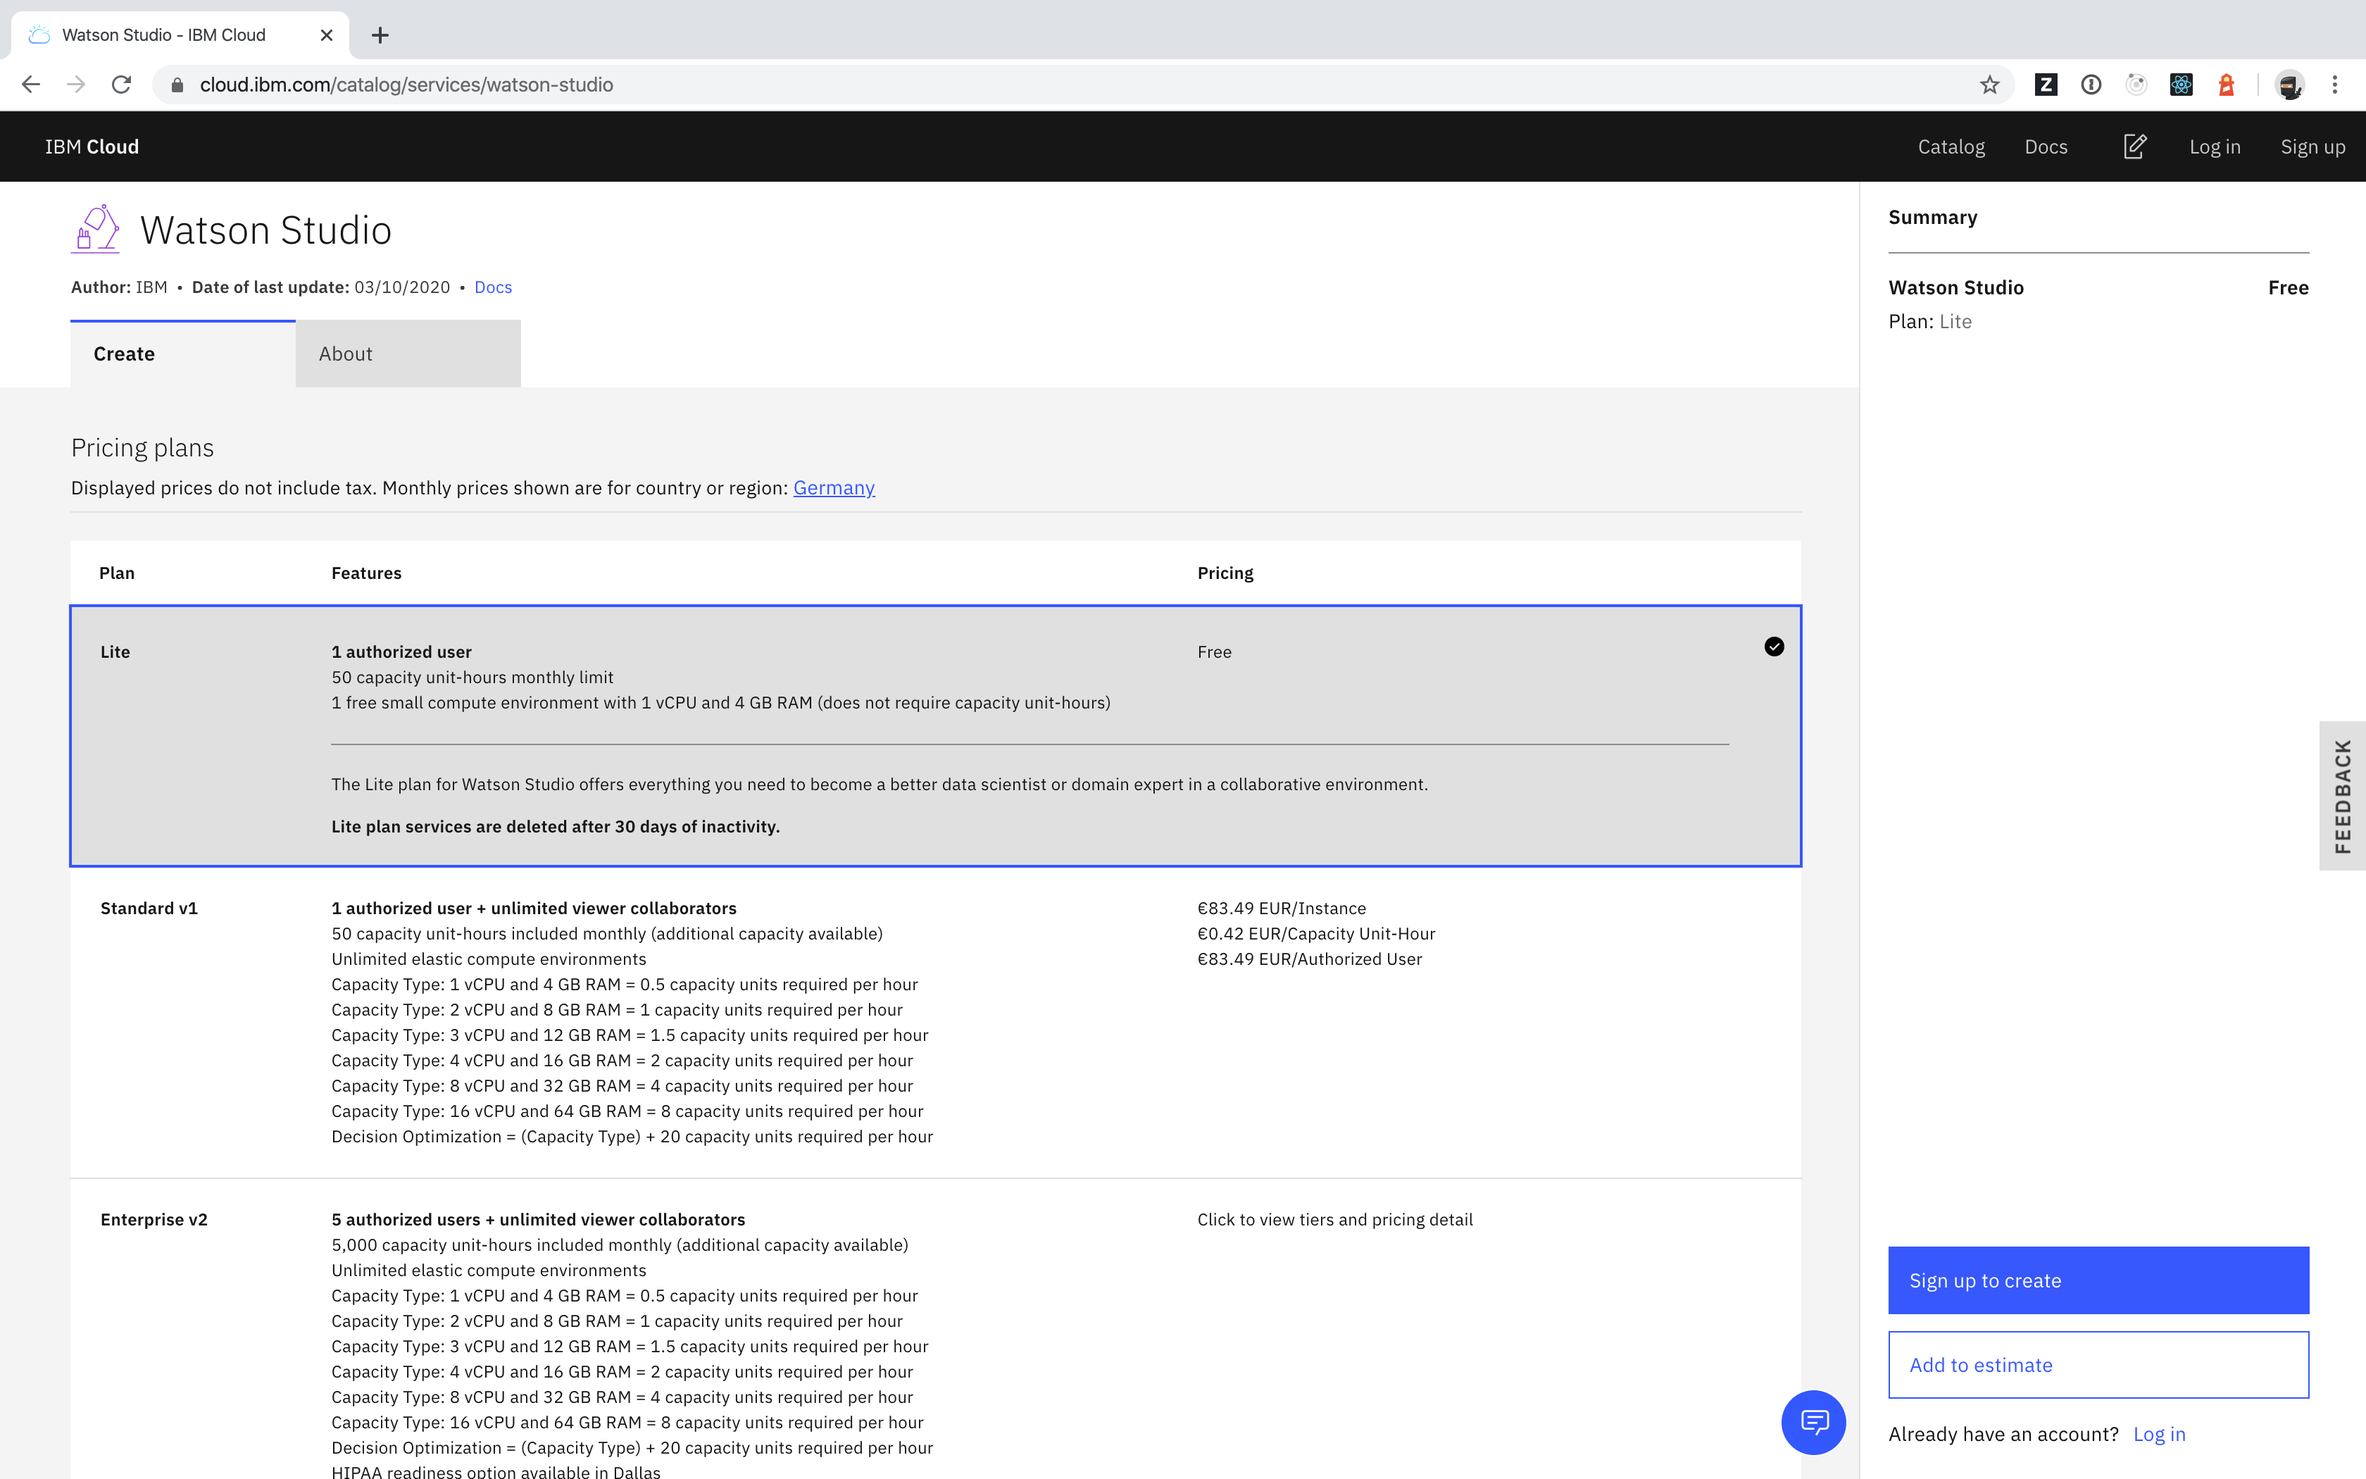
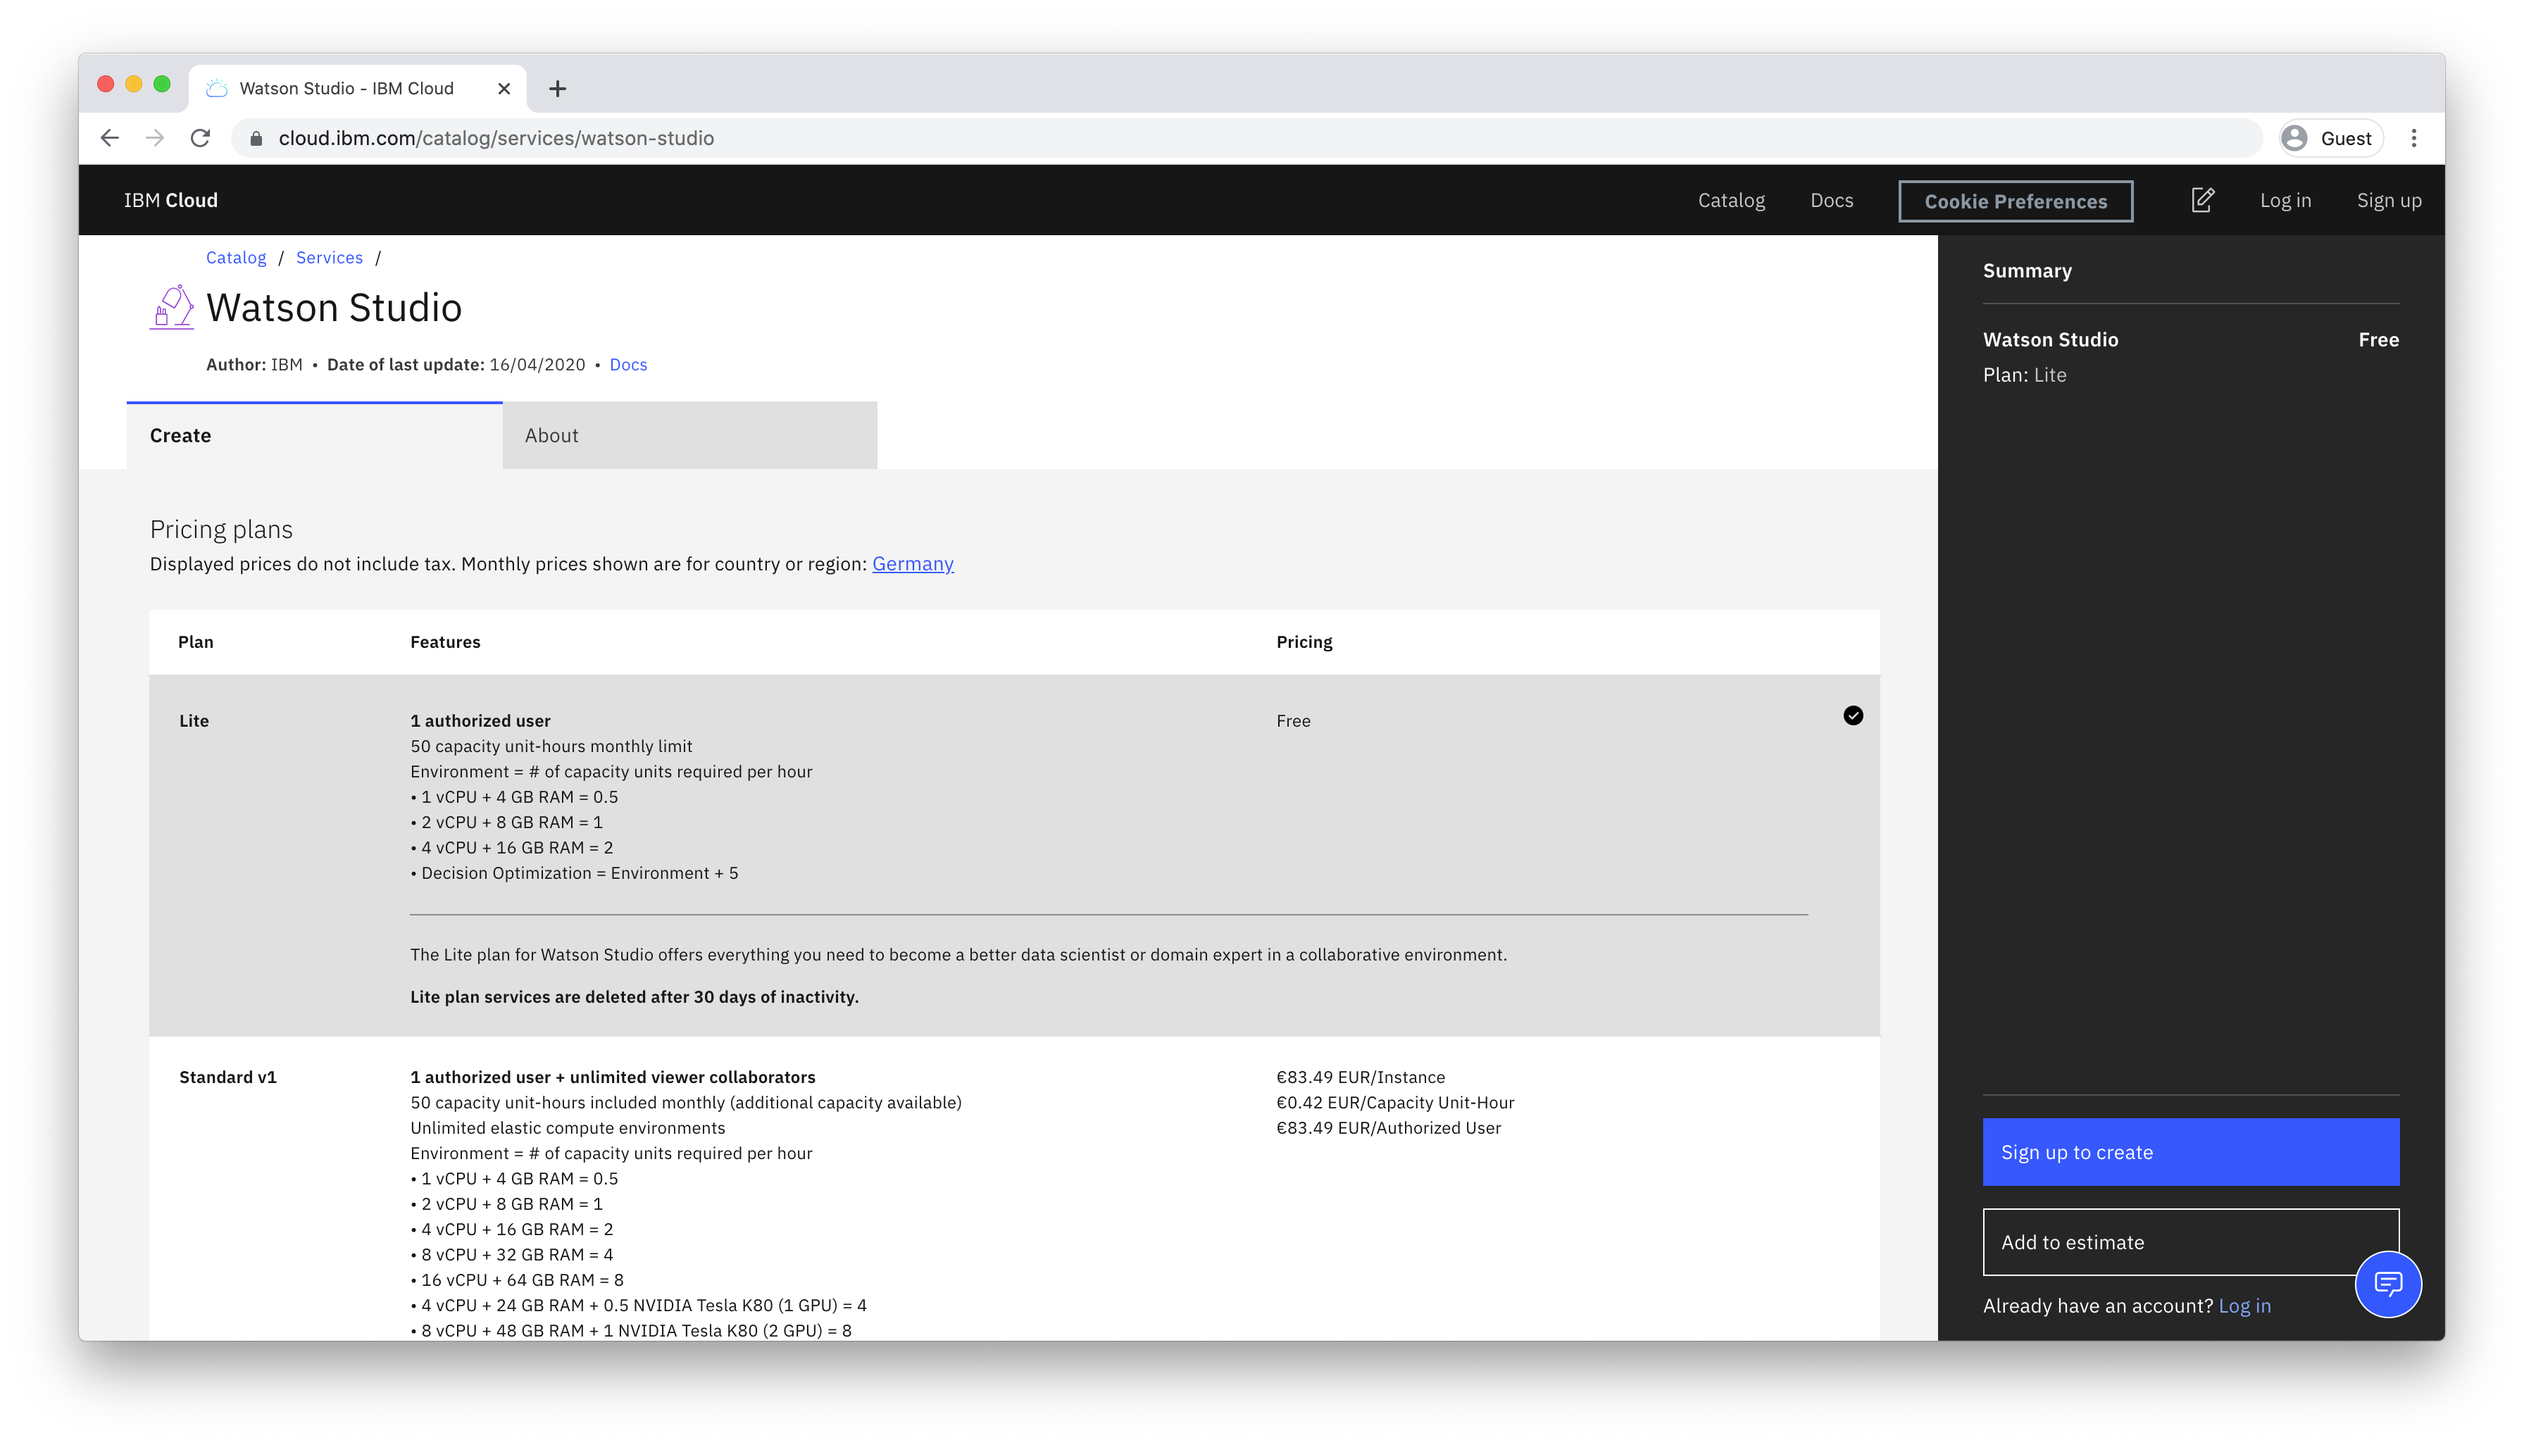
add details about pricing changes

diff --git a/Guidelines/change-environments/README.md b/Guidelines/change-environments/README.md
@@ -1,0 +1,24 @@
+# When I open a notebook an error is shown that indicates that Watson Studio no longer offers free environments. What should I do?
+
+Starting on May 19, 2020, Watson Studio pricing plans have changed. Please check the following links for details.
+  - https://www.ibm.com/cloud/blog/announcements/watson-studio-plan-updates
+  - https://dataplatform.cloud.ibm.com/docs/content/wsj/getting-started/whats-new.html?audience=wdp&context=wdp
+
+
+If you open a notebook that you previously started with a free runtime, an error will be shown in the UI:
+![](./screenshots/1.png)
+
+In order to change the runtime, you need to follow the instructions from the official [documentation](https://dataplatform.cloud.ibm.com/docs/content/wsj/analyze-data/change-environment.html?audience=wdp&context=wdp&linkInPage=true):
+![](./screenshots/2.png)
+![](./screenshots/3.png)
+
+Afterwards you can continue to use the environment until your monthly limit of capacity unit hours is reached (see [free usage instructions](../capacity-unit-hours)) for more details)
+
+### Tip
+The smallest default python runtime (2 vCPU and 8 GB RAM) consumes 1 capacity unit per hour. You can create a custom environment definition with a smaller size that only consumes 0.5 capacity units per hour:
+- Switch to the environments tab
+- Click "New environment definition"  
+![](./screenshots/4.png)
+- Click "Create"
+
+Afterwards you can associate existing notebooks with this environment (or create new notebooks based on this environment).

diff --git a/Guidelines/capacity-unit-hours/README.md b/Guidelines/capacity-unit-hours/README.md
@@ -1,9 +1,11 @@
 # How long can I use Watson Studio for free?
 
-If you sign up for a "Lite" plan, you will get a free compute environment and a monthly limit of 50 capacity-unit hours.
+If you sign up for a "Lite" plan, you will get a a monthly limit of 50 capacity-unit hours.
 ![](./screenshots/1.png)
 
 To learn more about compute usage, visit https://dataplatform.cloud.ibm.com/docs/content/wsj/analyze-data/track-runtime-usage.html.
 
 To check the remaining Capacity Unit Hours (CUH), open the _Environments_ tab of your project
 ![](./screenshots/2.png)
+
+The smallest environment runtime consumes 0.5 CUH per hour (i.e. it can be used 100 hours for free per month).

diff --git a/Guidelines/README.md b/Guidelines/README.md
@@ -12,6 +12,7 @@ This folder contains guidelines that walk you through common tasks needed to com
 - [How can I review service credentials of a linked Watson Service?](./create-service-credentials)
 - [How can I download files from Github?](./download-files-github)
 - [How long can I use notebooks in Watson Studio for free?](./capacity-unit-hours)
+- [When I open a notebook an error is shown that indicates that Watson Studio no longer offers free environments. What should I do?](./change-environments) 
 
 ## FAQs: Node-RED
 - [How can I start Node-RED on my local workstation?](./node-red-workstation)
